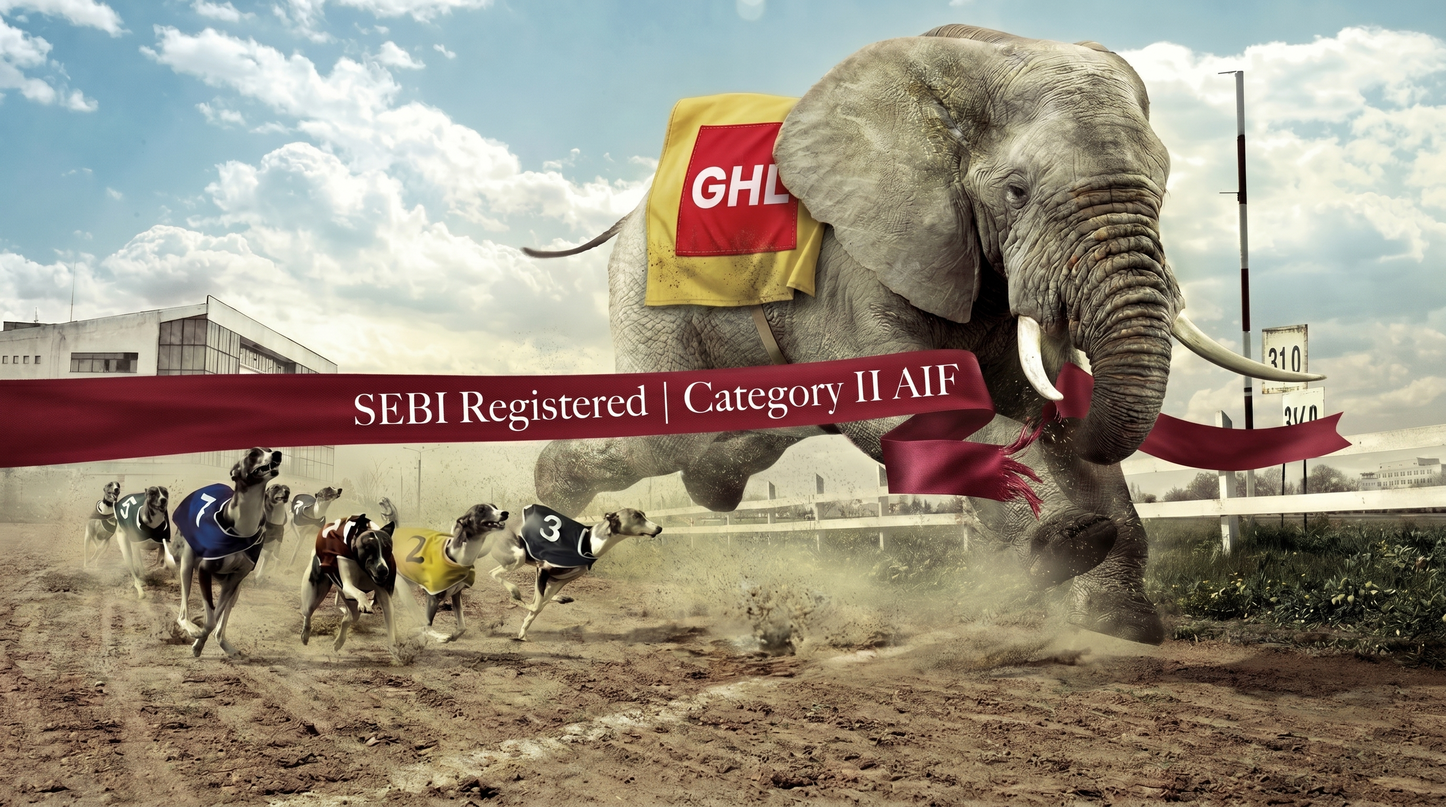
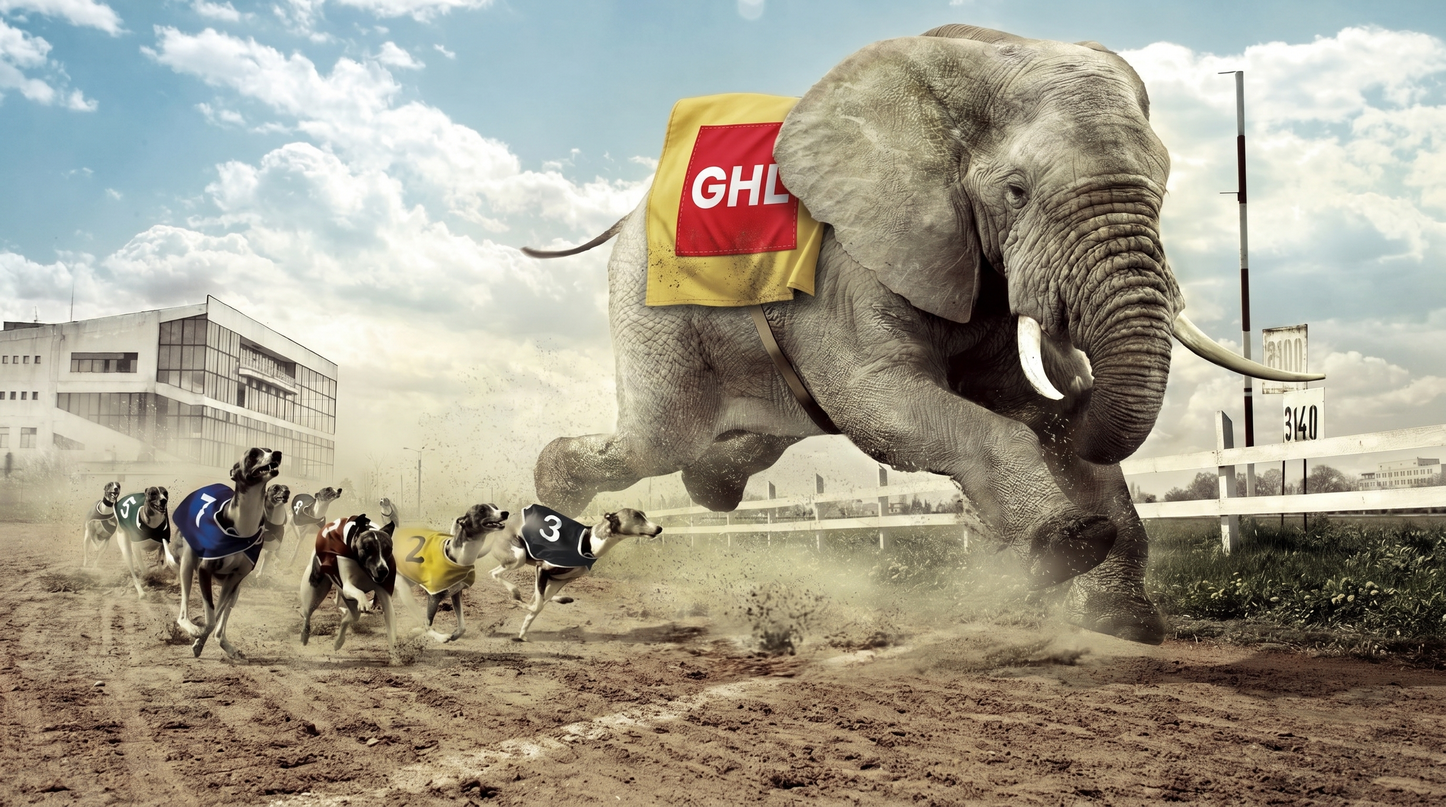
style(home): swap to no-ribbon hero photo + thicker caption glass
- hero-hpbg.jpg + hero-hpbg-sm.jpg replaced with the elephant +
  greyhounds composition without the SEBI ribbon overlay. The ribbon
  was bleeding through the now-clearer parent glass and competing
  with the red caption — removing it from the photo gives the
  composition a clean dust + sky backdrop.
- .hero-caption-panel beefed up: white tint 0.18 -> 0.42, blur
  10px -> 18px, saturate 120% -> 135%, border 1px / 0.30 -> 1.5px /
  0.55, shadow stack expanded with a deeper 38px drop + 6px contact +
  a subtle inset bottom edge. The red caption now sits on a clearly
  defined glass slab.

Changed region(s): [[0.0, 0.0312, 1.0, 1.0], [0.5625, 0.3125, 0.5938, 0.3438], [0.4688, 0.2188, 0.5, 0.25]]

diff --git a/styles/globals.css b/styles/globals.css
@@ -4566,15 +4566,21 @@ button[type="submit"].inline-flex {
   display: inline-block;
   -webkit-box-decoration-break: clone;
           box-decoration-break: clone;
-  padding: 0.55em 0.85em;
-  border-radius: 0.85rem;
-  background: rgba(255, 255, 255, 0.18);
-  border: 1px solid rgba(255, 255, 255, 0.30);
-  -webkit-backdrop-filter: blur(10px) saturate(120%);
-          backdrop-filter: blur(10px) saturate(120%);
+  padding: 0.65em 1em;
+  border-radius: 0.95rem;
+  /* 2026-05-10 follow-up: panel made noticeably "thicker" — higher
+     white tint, stronger blur, heavier border + shadow — so the red
+     lettering stands on a clearly defined glass slab instead of a
+     barely-there scrim. */
+  background: rgba(255, 255, 255, 0.42);
+  border: 1.5px solid rgba(255, 255, 255, 0.55);
+  -webkit-backdrop-filter: blur(18px) saturate(135%);
+          backdrop-filter: blur(18px) saturate(135%);
   box-shadow:
-    0 6px 24px rgba(11, 9, 10, 0.18),
-    inset 0 1px 0 rgba(255, 255, 255, 0.35);
+    0 12px 38px rgba(11, 9, 10, 0.28),
+    0 2px 6px rgba(11, 9, 10, 0.18),
+    inset 0 1px 0 rgba(255, 255, 255, 0.55),
+    inset 0 -1px 0 rgba(11, 9, 10, 0.06);
 }
 
 /* Force white text inside the glass card. Defeats the global
